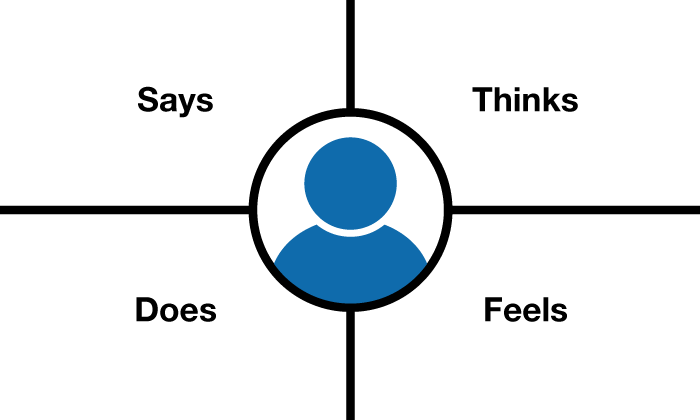
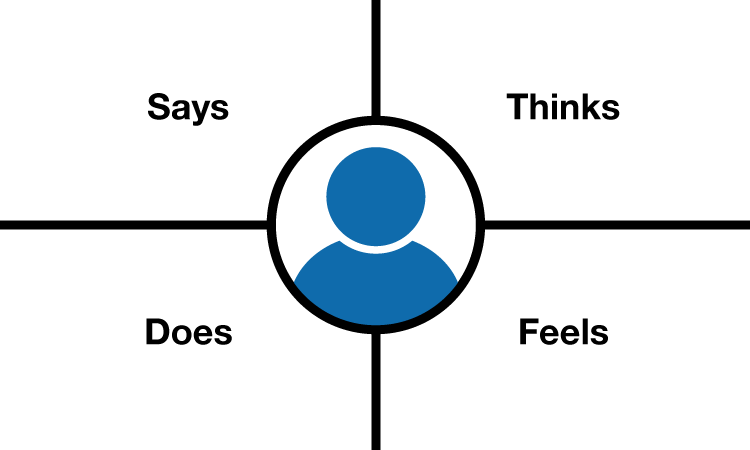
edit blog post ux research

diff --git a/my_collections/_posts/2021-04-11-ux-research.md b/my_collections/_posts/2021-04-11-ux-research.md
@@ -20,8 +20,8 @@ Before having a user interact with a website, it's often very helpful to sit dow
 
 It's essential to include all levels of stakeholders in the process. This includes both casual users of a website and managerial level users that have involvement in the oversight of the website. Incorporating different users with different perspectives, goals, and expectations for the website can help to avoid blind-spots that can result by speaking with only a limited number of users and user categories.
 
-{% capture post_image %}/assets/img/blog/blog-post-usability-persona.png{% endcapture %}
-{% include post-image.html max-width=50 file=post_image caption="User research often involves speaking directly with users" %}
+{% capture post_image %}/assets/img/blog/blog-post-usability-interview.jpg{% endcapture %}
+{% include post-image.html max-width=75 file=post_image caption="User research often involves speaking directly with users" %}
 
 The form of speaking with users can take on several different forms including interviews with individual users, focus groups with several users at once, or surveys that users fill out. Such surveys can include open-ended questions that allow users to provide feedback outside of the usually structured survey question.
 
@@ -34,7 +34,7 @@ The result of this process is data. Sometimes quantitative, but often qualitativ
 After gathering a good amount of qualitative data during the user research process, it's time to put that information to use. An important piece of information for developing a website is who are the most likely users of the website and what characteristics do they all have in common and what makes groups of users unique? This is where [creating personas](https://www.usability.gov/how-to-and-tools/methods/personas.html) can be beneficial. Personas are real-world and research-based representations of important users that can be referenced throughout different stages of the usability process.
 
 {% capture post_image %}/assets/img/blog/blog-post-usability-persona.png{% endcapture %}
-{% include post-image.html max-width=50 file=post_image caption="Example of a Persona for an Undergraduate Student" %}
+{% include post-image.html max-width=75 file=post_image caption="Example of a Persona for an Undergraduate Student" %}
 
 Having several different personas available helps the usability process by keep focus on the important types of users. This information can be consulted as the usability process continues.
 
@@ -43,7 +43,7 @@ Having several different personas available helps the usability process by keep 
 Another early stage of the user research process is to create [empathy maps](https://www.uxbooth.com/articles/empathy-mapping-a-guide-to-getting-inside-a-users-head/). These are tools to capture a user's expressions, intentions, actions, and emotions. They can be useful for diving deeper into a user's experience with a website and highlight pain points or more complex user expectations and goals.
 
 {% capture post_image %}/assets/img/blog/blog-post-usability-empathy-mapping.png{% endcapture %}
-{% include post-image.html max-width=50 file=post_image caption="Example of a Empathy Map divided into quadrants for what a user says, does, thinks, and feels." %}
+{% include post-image.html max-width=75 file=post_image caption="Example of a Empathy Map divided into quadrants for what a user says, does, thinks, and feels." %}
 
 Each quadrant of the empathy map is filled with quotes or actions of the user to describe the process of engagement with a website.
 
@@ -53,7 +53,7 @@ Creating and analyzing user scenarios and user stories adds some real-world cont
 
 A user story is typically written with the following structure: "As a **persona** or **user**, I **want to**, so I can **fulfill a goal**". With a user story, the design and development team can get to work on solving the story and discussing ways that it can be implemented from a design and technical point of view.
 
-> As a student, I want a quick way to contact the library, so I can get my question answered quickly.
+> "As a student, I want a quick way to contact the library, so I can get my question answered quickly."
 
 In addressing the user story above, the design team might imagine the creation of a persistent chat widget that would be available on all pages of a website. The development team might think about how they could use CSS and Javascript to implement a feature like this and what functionality it might include.
 
@@ -61,8 +61,8 @@ In addressing the user story above, the design team might imagine the creation o
 
 A hands-on activity that a UX research team can do is create an [affinity diagram](https://www.interaction-design.org/literature/article/affinity-diagrams-learn-how-to-cluster-and-bundle-ideas-and-facts). Creating an affinity diagram involves a process similar to brainstorming. Based on all the user research data collected, a team will write down important observations, questions, or issues that came up during the user research process regarding a user's interaction with a website. Once all the notes have been created, they are grouped together thematically. The idea behind an affinity diagram is to organize the user research outcomes into more manageable headings and then look for connections or insights from the ideas that come together under different headings.
 
-{% capture post_image %}/assets/img/blog/blog-post-usability-affinity-diagram.png{% endcapture %}
-{% include post-image.html max-width=50 file=post_image caption="Example of a team creating an affinity diagram" %}
+{% capture post_image %}/assets/img/blog/blog-post-usability-affinity-diagram.jpg{% endcapture %}
+{% include post-image.html max-width=75 file=post_image caption="Example of a team creating an affinity diagram" %}
 
 #### Card Sorting
 
